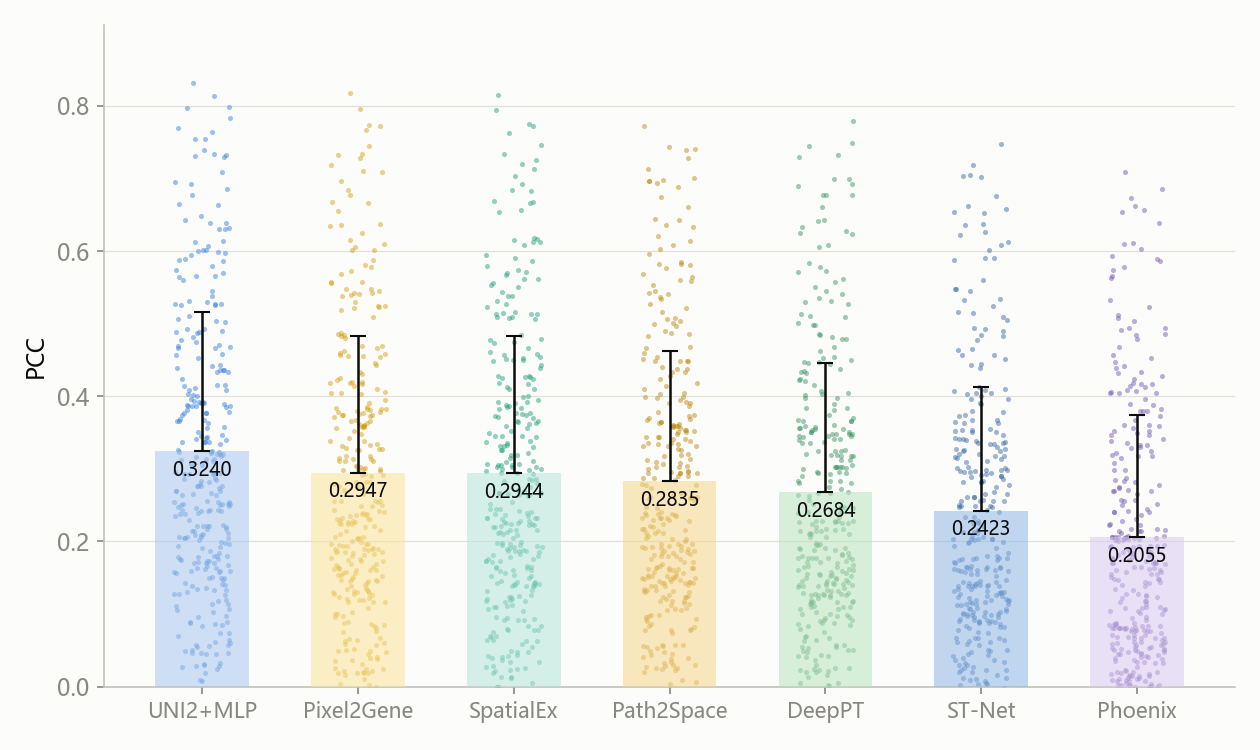
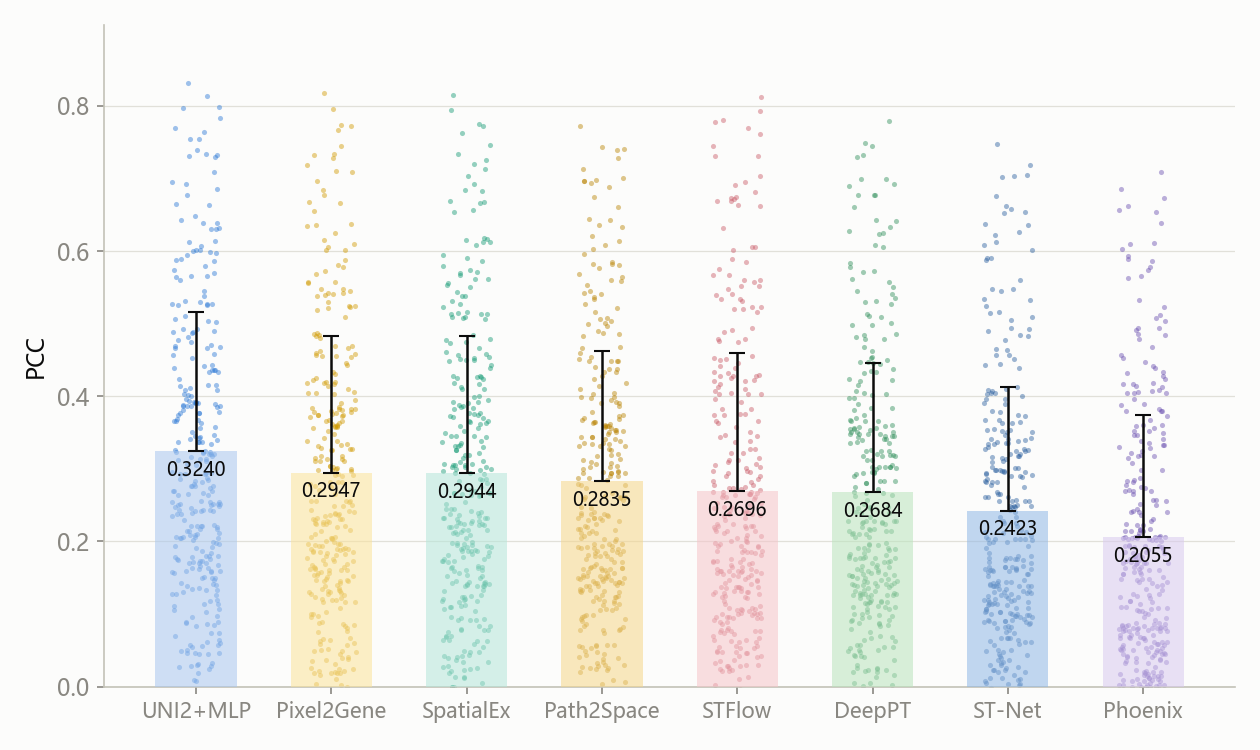
新增SSIM柱状图(±1std+逐基因散点); 补入STFlow(之前遗漏)到PCC/SSIM/Topk图

diff --git a/scripts/plot_he_results_partial.py b/scripts/plot_he_results_partial.py
@@ -46,6 +46,7 @@ METHODS = [
     ("Path2Space", "bench_path2space_unf", YELLOW),
     ("DeepPT", "bench_deeppt_resnet50_unf", MAGENTA),
     ("ST-Net", "bench_st_net_unf", GREEN),
+    ("STFlow", "bench_stflow_unf", INK),
     ("Phoenix", "bench_phoenix_finetune", INK),
 ]
 # PCC 柱状图：黄、绿、蓝为主，很浅的柱色 + 稍深的散点色
@@ -56,6 +57,7 @@ BAR_COLORS = {
     "Path2Space": "#f6d689",   # 极浅暗黄
     "DeepPT": "#b9e4bc",       # 极浅绿
     "ST-Net": "#8fb7e6",       # 浅蓝
+    "STFlow": "#f6c4c9",       # 浅粉
     "Phoenix": "#d8c9f0",      # 极浅紫
 }
 SCATTER_COLORS = {
@@ -65,26 +67,40 @@ SCATTER_COLORS = {
     "Path2Space": "#b98200",   # 深暗黄
     "DeepPT": "#2f8f5a",       # 深绿
     "ST-Net": "#2a5f9e",       # 深蓝
+    "STFlow": "#c95a68",       # 深粉
     "Phoenix": "#6a4fb0",      # 深紫
 }
 OUT_ROOT = "outputs"
 
 
-def load_method(dirname):
-    base = os.path.join(OUT_ROOT, dirname)
-    # 逐基因 PCC：新格式 gene_pcc.csv 或旧格式 eval_metrics.csv_genes.csv
-    pccs = []
-    gp = os.path.join(base, "eval_metrics.csv_gene_pcc.csv")
-    if not os.path.exists(gp):
-        gp = os.path.join(base, "eval_metrics.csv_genes.csv")
-    with open(gp) as f:
+def _read_col(path, col):
+    out = []
+    with open(path) as f:
         r = csv.reader(f)
         header = next(r)
-        pcc_col = 1 if len(header) < 2 or header[1] == "PCC" else 1
         for row in r:
-            if len(row) > pcc_col and row[pcc_col] not in ("", "nan"):
-                pccs.append(float(row[pcc_col]))
-    pccs = np.array(pccs)
+            if len(row) > col and row[col] not in ("", "nan"):
+                out.append(float(row[col]))
+    return np.array(out)
+
+
+def load_method(dirname):
+    base = os.path.join(OUT_ROOT, dirname)
+    genes_csv = os.path.join(base, "eval_metrics.csv_genes.csv")
+    gene_pcc_csv = os.path.join(base, "eval_metrics.csv_gene_pcc.csv")
+    # 逐基因指标：优先 genes.csv（含 PCC/SPCC/AUROC/SSIM），缺失则用 gene_pcc.csv
+    pccs = _read_col(gene_pcc_csv, 1) if os.path.exists(gene_pcc_csv) else (
+        _read_col(genes_csv, 1) if os.path.exists(genes_csv) else np.array([]))
+    ssims = spccs = aurocs = None
+    if os.path.exists(genes_csv):
+        with open(genes_csv) as f:
+            header = next(csv.reader(f))
+        if "SSIM" in header:
+            ssims = _read_col(genes_csv, header.index("SSIM"))
+        if "SPCC" in header:
+            spccs = _read_col(genes_csv, header.index("SPCC"))
+        if "AUROC" in header:
+            aurocs = _read_col(genes_csv, header.index("AUROC"))
     # Top-k 曲线（缺失则返回 None，柱状图仍可用）
     ks, acc = None, None
     tk = os.path.join(base, "topk_curve.csv")
@@ -103,7 +119,8 @@ def load_method(dirname):
     if os.path.exists(tj):
         with open(tj) as f:
             res = json.load(f)
-    return {"name": None, "pccs": pccs, "ks": ks, "acc": acc, "res": res}
+    return {"name": None, "pccs": pccs, "ssims": ssims, "spccs": spccs,
+            "aurocs": aurocs, "ks": ks, "acc": acc, "res": res}
 
 
 data = {name: load_method(d) for name, d, _ in METHODS}
@@ -169,3 +186,43 @@ fig.tight_layout()
 fig.savefig("topk_accuracy_unf_partial.png", dpi=150)
 plt.close(fig)
 print("已生成 topk_accuracy_unf_partial.png")
+
+# ================= 3. SSIM 柱状图（±1std + 逐基因 SSIM 散点） =================
+ssim_names = [name for name, _, _ in METHODS
+              if data[name]["ssims"] is not None and len(data[name]["ssims"]) > 0]
+if ssim_names:
+    s_means = [data[n]["ssims"].mean() for n in ssim_names]
+    s_stds = [data[n]["ssims"].std() for n in ssim_names]
+    order_s = np.argsort(-np.array(s_means))
+    s_names_s = [ssim_names[i] for i in order_s]
+    s_means_s = [s_means[i] for i in order_s]
+    s_stds_s = [s_stds[i] for i in order_s]
+    s_cols = [BAR_COLORS[n] for n in s_names_s]
+    fig, ax = plt.subplots(figsize=(8.4, 5.0))
+    x = np.arange(len(s_names_s))
+    yerr_up = np.array([np.zeros(len(s_stds_s)), s_stds_s])
+    ax.bar(x, s_means_s, yerr=yerr_up, color=s_cols, width=0.6, alpha=0.55,
+           error_kw=dict(ecolor=INK, lw=1.2, capsize=4), zorder=3)
+    rng = np.random.default_rng(1)
+    for xi, n in zip(x, s_names_s):
+        ss = data[n]["ssims"]
+        jx = rng.uniform(-0.18, 0.18, size=len(ss))
+        ax.scatter(xi + jx, ss, s=6, color=SCATTER_COLORS[n], alpha=0.45,
+                   linewidths=0, zorder=2)
+    for xi, m in zip(x, s_means_s):
+        ax.text(xi, m - 0.008, f"{m:.3f}", ha="center", va="top", fontsize=9,
+                color=INK, zorder=5)
+    ax.set_xticks(x)
+    ax.set_xticklabels(s_names_s, fontsize=10)
+    ax.set_ylabel("SSIM")
+    ymax = max(data[n]["ssims"].max() for n in ssim_names)
+    ax.set_ylim(0, ymax + 0.05)
+    ax.grid(axis="x", visible=False)
+    fig.tight_layout()
+    fig.savefig("benchmark_ssim_bar_unf_partial.png", dpi=150)
+    plt.close(fig)
+    print("已生成 benchmark_ssim_bar_unf_partial.png")
+    for n, m, s in zip(s_names_s, s_means_s, s_stds_s):
+        print(f"  {n:12s} {m:.3f} ± {s:.3f}（散点 min {data[n]['ssims'].min():.3f} ~ max {data[n]['ssims'].max():.3f}）")
+else:
+    print("没有 SSIM 数据，跳过 SSIM 柱状图")
